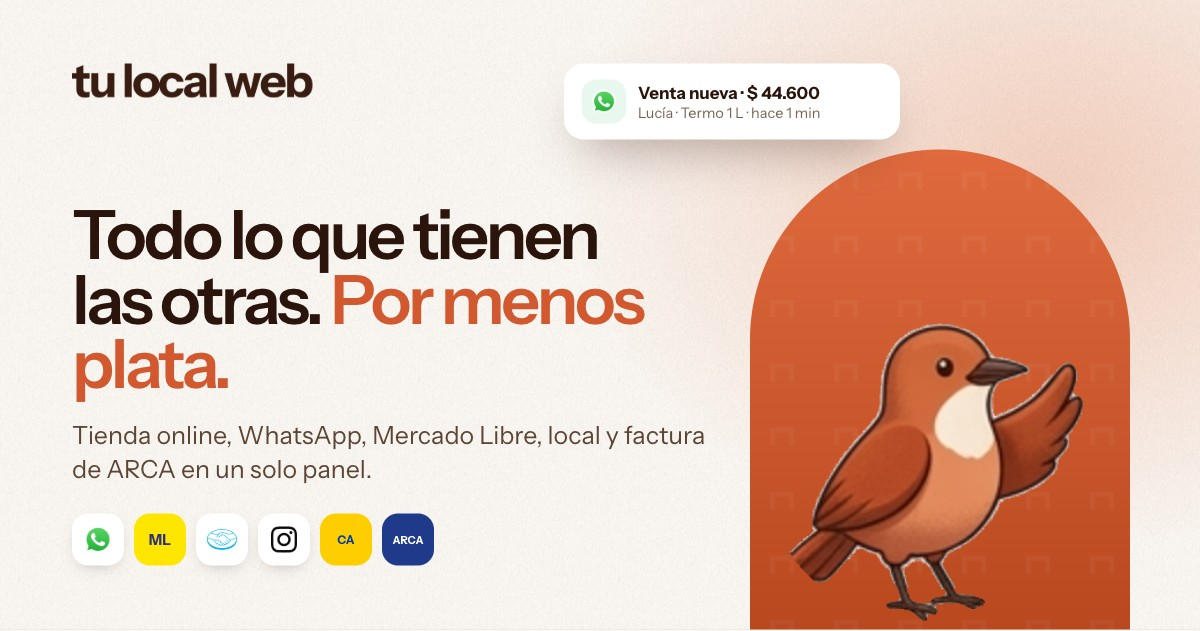
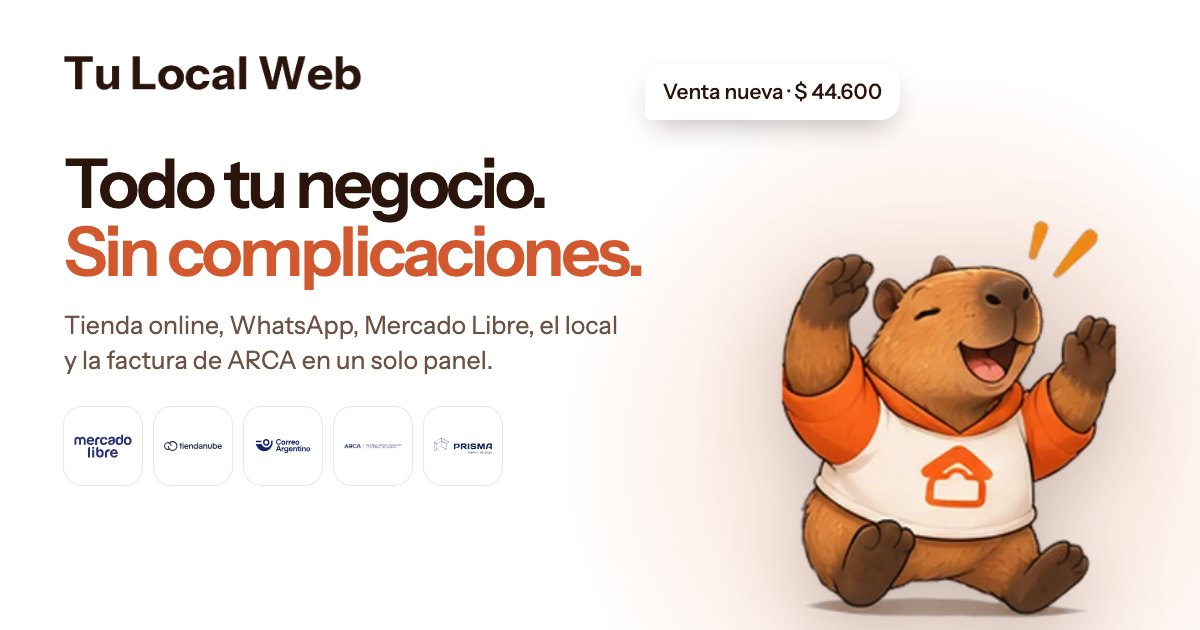
OG de Tu Local Web con la marca nueva y Tincho, y su generador
scripts/og/og.ts arma las imágenes para compartir (1200×630) con el wordmark, Instrument Sans,
terracota y las poses de Tincho, y las renderiza con Playwright. Textos sin promesas que no se
cumplen (precios y comisión de los datos reales). Sale la de Caja.

Claude-Session: https://claude.ai/code/session_019W2t1CY35PhVGLGpsVx3XC

diff --git a/apps/web/scripts/og/og.ts b/apps/web/scripts/og/og.ts
@@ -1,0 +1,182 @@
+/**
+ * Las imágenes para compartir (static/og/*.jpg, 1200×630): una plantilla con la marca (wordmark,
+ * Instrument Sans, terracota y Tincho) y el texto de cada página. Se regeneran con
+ *   bun scripts/og/og.ts
+ * Los números que aparecen (precios, comisión) salen de lib/panel/planes.ts y de /partners: si
+ * cambian allá, se cambian acá.
+ */
+import { chromium } from '@playwright/test';
+import { mkdtempSync, rmSync, writeFileSync } from 'node:fs';
+import { tmpdir } from 'node:os';
+import { join } from 'node:path';
+
+const WEB = join(import.meta.dirname, '../..');
+const STATIC = join(WEB, 'static');
+const archivo = (p: string) => 'file://' + join(STATIC, p);
+const fuente = (peso: string) =>
+	'file://' +
+	join(
+		WEB,
+		'../../node_modules/@fontsource-variable/instrument-sans/files',
+		`instrument-sans-latin-${peso}-normal.woff2`
+	);
+
+type Og = {
+	id: string;
+	titulo: string;
+	/** La parte del título en terracota. */
+	acento: string;
+	texto: string;
+	tincho: string;
+	fondo: 'claro' | 'oscuro' | 'terracota';
+	/** Lo de abajo del texto: logos, chips o nada. */
+	pie?: string;
+	/** Algo flotando junto a Tincho (una burbuja, una tarjeta). */
+	extra?: string;
+};
+
+const logos = (ns: string[]) =>
+	`<div class="logos">${ns.map((n) => `<span class="logo"><img src="${archivo('marcas/' + n)}"></span>`).join('')}</div>`;
+const chips = (ts: string[]) =>
+	`<div class="chips">${ts.map((t) => `<span class="chip">${t}</span>`).join('')}</div>`;
+const burbuja = (t: string, mia = false, y = 0, x = 0) =>
+	`<div class="burbuja${mia ? ' mia' : ''}" style="top:${y}px;right:${x}px">${t}</div>`;
+
+const OGS: Og[] = [
+	{
+		id: 'home',
+		titulo: 'Todo tu negocio.',
+		acento: 'Sin complicaciones.',
+		texto:
+			'Tienda online, WhatsApp, Mercado Libre, el local y la factura de ARCA en un solo panel.',
+		tincho: 'saludo',
+		fondo: 'claro',
+		pie: logos([
+			'mercadolibre.svg',
+			'tiendanube.svg',
+			'correo-argentino.svg',
+			'arca.webp',
+			'payway.svg'
+		]),
+		extra: burbuja('Venta nueva · $\u00a044.600', false, 64, 300)
+	},
+	{
+		id: 'general',
+		titulo: 'Claro, simple y',
+		acento: 'sin letra chica.',
+		texto: 'Ayuda, legales y todo lo que necesitás saber para vender tranquilo.',
+		tincho: 'portapapeles',
+		fondo: 'claro'
+	},
+	{
+		id: 'hornero',
+		titulo: 'Tincho atiende tu WhatsApp',
+		acento: 'mientras dormís.',
+		texto: 'Responde con tu stock real, cobra y te avisa lo importante.',
+		tincho: 'whatsapp',
+		fondo: 'terracota',
+		extra:
+			burbuja('¿Tenés el termo en negro?', false, 70, 300) +
+			burbuja('¡Sí! Quedan 3. Te llega el jueves. ¿Te mando el link de pago?', true, 130, 250)
+	},
+	{
+		id: 'migrar',
+		titulo: 'Mudate a',
+		acento: 'Tu\u00a0Local\u00a0Web.',
+		texto: 'Traemos tus productos con fotos y variantes. Tus links viejos siguen andando.',
+		tincho: 'caja',
+		fondo: 'claro',
+		pie: chips(['Tiendanube', 'Shopify', 'WooCommerce'])
+	},
+	{
+		id: 'partners',
+		titulo: 'Armás tiendas.',
+		acento: 'Ganás cada mes.',
+		texto:
+			'Programa de partners para agencias, diseñadores y contadores. Hasta 30 % de comisión recurrente.',
+		tincho: 'celebrando',
+		fondo: 'oscuro'
+	},
+	{
+		id: 'plantillas',
+		titulo: 'Una tienda que se\u00a0ve',
+		acento: 'como tu marca.',
+		texto: 'Plantillas para cada rubro: moda, cafés, almacenes, vinotecas, belleza y más.',
+		tincho: 'foto',
+		fondo: 'claro'
+	},
+	{
+		id: 'precios',
+		titulo: 'Empezás gratis.',
+		acento: 'Crecés sin sorpresas.',
+		texto:
+			'Un plan gratis para arrancar y planes pagos desde $\u00a019.900 por mes. Probá todo 14 días sin tarjeta.',
+		tincho: 'ticket',
+		fondo: 'oscuro',
+		pie: chips(['Gratis', 'Emprende $ 19.900', 'Pro $ 49.900', 'Negocio $ 149.900'])
+	},
+	{
+		id: 'seguridad',
+		titulo: 'Tus datos, cuidados.',
+		acento: 'Y siempre tuyos.',
+		texto: 'Conexión cifrada, permisos por persona del equipo y todo exportable cuando quieras.',
+		tincho: 'seguridad',
+		fondo: 'oscuro'
+	}
+];
+
+function html(o: Og) {
+	const wordmark = o.fondo === 'claro' ? 'wordmark-brown.webp' : 'wordmark-cream.webp';
+	return `<!doctype html><html><head><meta charset="utf-8"><style>
+@font-face{font-family:IS;font-weight:400 700;src:url(${fuente('wght')})}
+*{box-sizing:border-box}
+body{margin:0;width:1200px;height:630px;overflow:hidden;font-family:IS,system-ui,sans-serif;position:relative}
+.claro{background:#fff;color:#2a140c}
+.oscuro{background:#2a140c;color:#fbf7f2}
+.terracota{background:#d2582f;color:#fff}
+.mancha{position:absolute;right:-120px;bottom:-200px;width:760px;height:760px;border-radius:50%}
+.claro .mancha{background:radial-gradient(closest-side,#fcede5 0%,#fcede5 55%,rgba(252,237,229,0) 100%)}
+.oscuro .mancha{background:radial-gradient(closest-side,rgba(210,88,47,.55) 0%,rgba(210,88,47,.18) 55%,rgba(210,88,47,0) 100%)}
+.terracota .mancha{background:radial-gradient(closest-side,rgba(255,255,255,.22) 0%,rgba(255,255,255,0) 100%)}
+.wm{position:absolute;left:64px;top:56px;height:34px}
+.izq{position:absolute;left:64px;top:150px;width:640px}
+h1{margin:0;font-size:68px;line-height:1;letter-spacing:-.045em;font-weight:600;text-wrap:balance}
+h1 span{color:#d2582f;display:block}
+.terracota h1 span{color:#2a140c}
+.oscuro h1 span{color:#e8875f}
+p{margin:22px 0 0;font-size:25px;line-height:1.38;font-weight:400;max-width:560px;text-wrap:pretty}
+.claro p{color:#6b5244}.oscuro p{color:#cbbcae}.terracota p{color:#fff3ec}
+.logos{display:flex;gap:12px;margin-top:30px}
+.logo{width:78px;height:78px;border-radius:18px;background:#fff;box-shadow:0 0 0 1px rgba(42,20,12,.1);display:flex;align-items:center;justify-content:center}
+.logo img{max-width:58px;max-height:46px}
+.chips{display:flex;flex-wrap:wrap;gap:10px;margin-top:28px}
+.chip{padding:9px 16px;border-radius:999px;font-size:19px;font-weight:600}
+.claro .chip{background:#fcede5;color:#b0441d}
+.oscuro .chip{background:rgba(251,247,242,.1);color:#fbf7f2;box-shadow:inset 0 0 0 1px rgba(251,247,242,.16)}
+.tincho{position:absolute;right:36px;bottom:-6px;width:430px;height:430px;object-fit:contain;filter:drop-shadow(0 24px 40px rgba(42,20,12,.25))}
+.burbuja{position:absolute;max-width:330px;padding:14px 18px;border-radius:20px 20px 20px 6px;background:#fff;color:#2a140c;font-size:21px;line-height:1.35;font-weight:500;box-shadow:0 12px 30px -10px rgba(42,20,12,.35)}
+.burbuja.mia{border-radius:18px 18px 6px 18px;background:#2a140c;color:#fbf7f2}
+</style></head><body class="${o.fondo}">
+<div class="mancha"></div>
+<img class="wm" src="${archivo(wordmark)}">
+<div class="izq"><h1>${o.titulo} <span>${o.acento}</span></h1><p>${o.texto}</p>${o.pie ?? ''}</div>
+<img class="tincho" src="${archivo('hornero/' + o.tincho + '.webp')}">
+${o.extra ?? ''}
+</body></html>`;
+}
+
+// Desde un archivo (no setContent): una página about:blank no puede leer las imágenes locales.
+const solo = process.argv[2];
+const tmp = mkdtempSync(join(tmpdir(), 'og-'));
+const b = await chromium.launch();
+const p = await b.newPage({ viewport: { width: 1200, height: 630 } });
+for (const o of OGS.filter((x) => !solo || x.id === solo)) {
+	const f = join(tmp, `${o.id}.html`);
+	writeFileSync(f, html(o));
+	await p.goto('file://' + f, { waitUntil: 'load' });
+	await p.evaluate(() => document.fonts.ready);
+	await p.screenshot({ path: join(STATIC, 'og', `${o.id}.jpg`), type: 'jpeg', quality: 86 });
+	console.log('og', o.id);
+}
+await b.close();
+rmSync(tmp, { recursive: true });

diff --git a/apps/web/src/lib/components/Seo.svelte b/apps/web/src/lib/components/Seo.svelte
@@ -23,7 +23,6 @@
 		image?:
 			| 'home'
 			| 'general'
-			| 'caja'
 			| 'hornero'
 			| 'migrar'
 			| 'partners'
